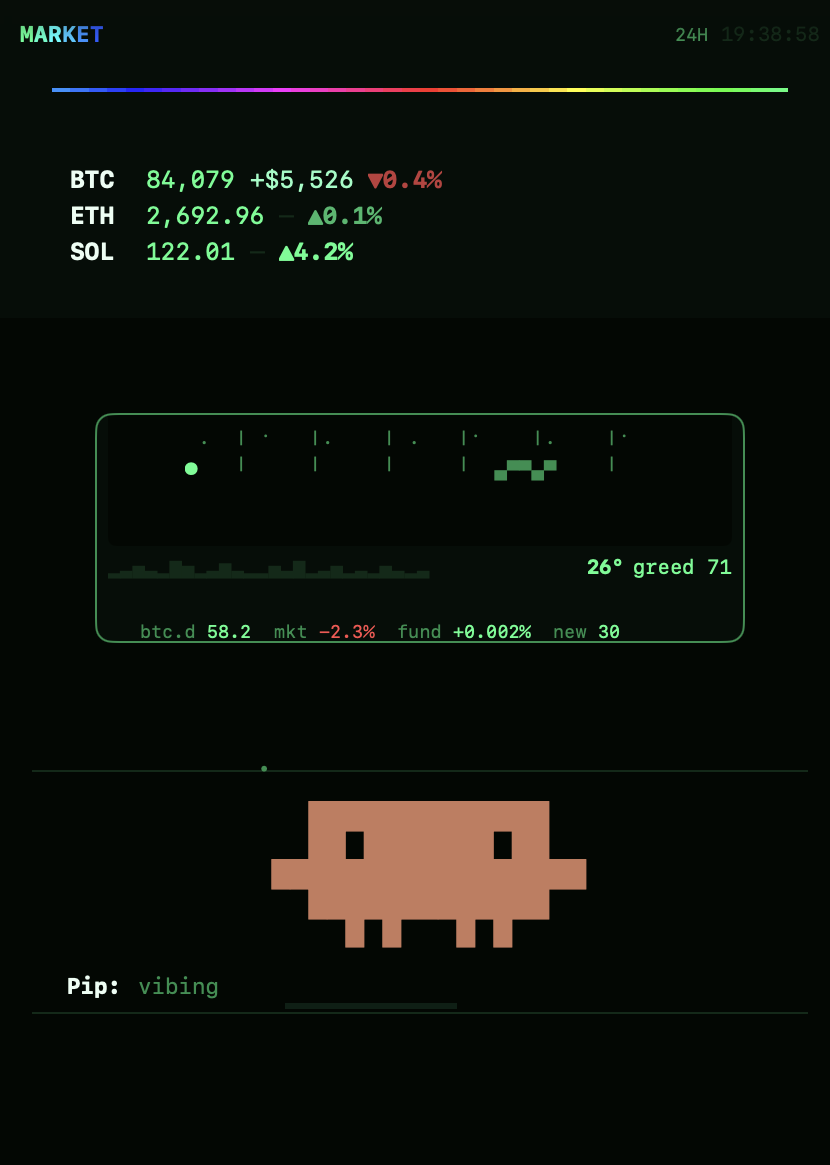
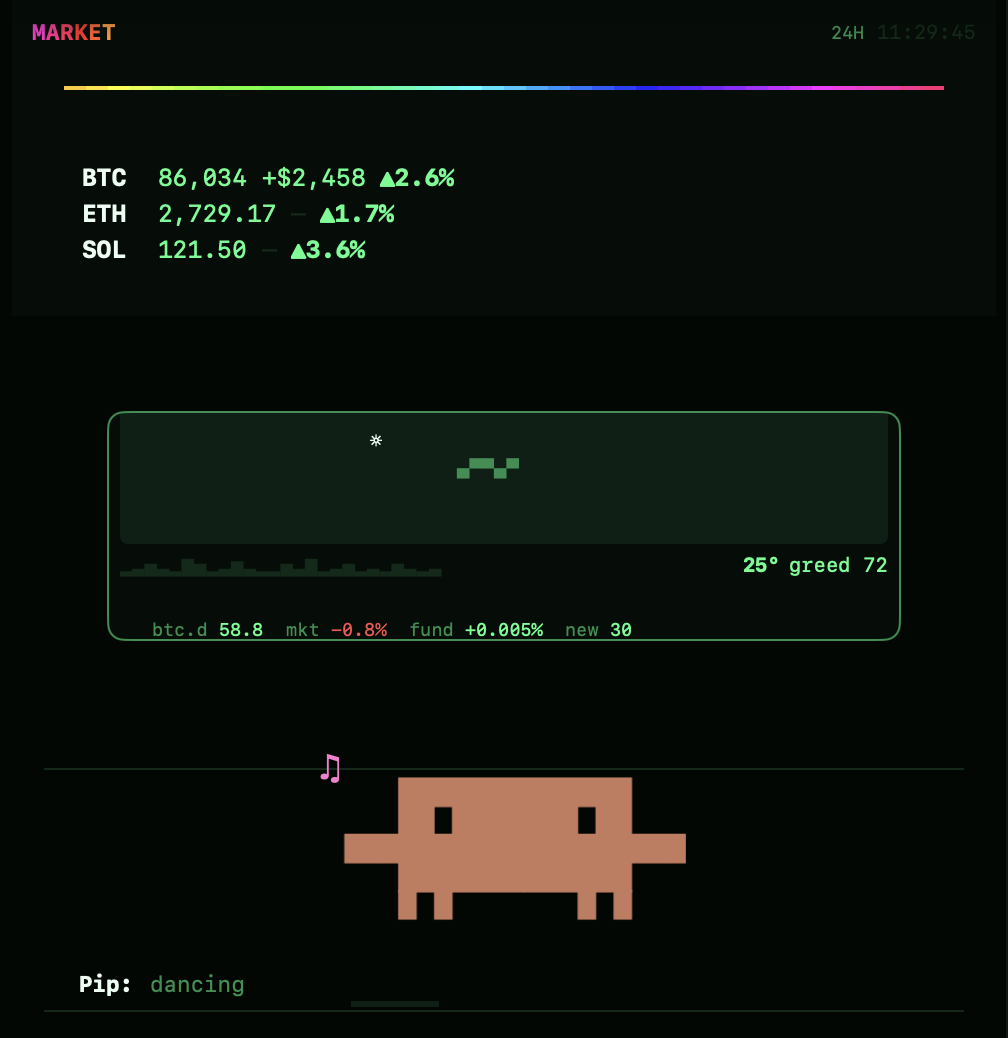
Pip: only what asks something of you makes him say he needs you
The Notification hook carries every notice type, so a finished turn
(idle_prompt), a login, a finished background agent and the quota notices
all made a session "need" you, and with the most urgent session winning,
one finished tab kept Pip on "needs you" for twenty minutes while you
worked in another. Only notices that ask something of you count now:
permission_prompt, worker_permission_prompt (in Claude Code 2.1.286, not
yet in the docs), elicitation_dialog, elicitation_url_dialog,
agent_needs_input, quota_auto_resume_stale (waits for Enter), and any type
naming a permission. Anything else leaves the session as it was.

cmux's live status comes first, so a session you approved reads as
working from its next tool call (cmux records no event for the approval
itself; after a turn's last tool there is none, and it reads "needs you"
until the turn ends). Working counts
on every workspace; needs_input only on the selected one, as before,
because cmux sets it on every Claude notification, a finished turn too, and
nothing clears it until that tab is prompted. The trade, stated in the
code: a session waiting on you isn't shown while a cmux agent is working.

It also fixes the live path itself, dead since 000e1f1: cmux's sidebar
interpreter has no nil, so `$0.agents != nil` filtered every agent out and
Pip never read cmux's status at all. pipMode now uses forms run through cmux
0.64.25's own interpreter, and the bake test fails on any nil.
[…]

diff --git a/tests/test_sidebar.py b/tests/test_sidebar.py
@@ -86,6 +86,9 @@ class Sidebar(unittest.TestCase):
         seed_cache()
 
     def check(self, src):
+        # cmux's interpreter has no nil: a comparison with it evaluates to nothing, which
+        # .filter and if read as false, so `$0.agents != nil` silently dropped every agent.
+        self.assertNotRegex(src, r"\bnil\b", "the interpreter has no nil")
         funcs = defined_funcs(src)
         for arg in colour_args(src):
             ok = (re.fullmatch(HEX, arg)
@@ -163,7 +166,7 @@ class Sidebar(unittest.TestCase):
         self.check(open(out, encoding="utf-8").read())
 
 
-# Pip's hook mode: one small write per hook, never a re-bake, and a working
+# Pip's hook mode: one session's record per hook, never a re-bake, and a working
 # stretch that survives turns ending and long sessions.
 T0 = 1_790_000_000
 
@@ -182,8 +185,8 @@ class HookMode(unittest.TestCase):
             p.stop()
         self.temp.cleanup()
 
-    def hook(self, word, at, session=None):
-        stdin = json.dumps({"session_id": session}) if session else "{}"
+    def hook(self, word, at, session=None, **fields):
+        stdin = json.dumps(dict({"session_id": session} if session else {}, **fields))
         with patch.object(mode.time, "time", return_value=at), \
              patch.object(sys, "argv", ["mode.py", word]), \
              patch.object(sys, "stdin", io.StringIO(stdin)), \
@@ -208,6 +211,32 @@ class HookMode(unittest.TestCase):
         self.hook("idle", T0 + 90, "b")
         self.assertEqual(self.hook_mode(T0 + 100)[0], "work", "both inside their stretch")
         self.assertEqual(self.hook_mode(T0 + 90 + mode.STRETCH)[0], "idle")
+
+    def test_only_notifications_that_need_you_count(self):
+        self.hook("work", T0, "a")
+        before = Path(mode.SESSIONS).read_text()
+        for kind in ("idle_prompt", "auth_success", "agent_completed", "quota_auto_resume_fired"):
+            self.hook("needs", T0 + 10, "a", notification_type=kind)
+        self.assertEqual(Path(mode.SESSIONS).read_text(), before, "these leave the session untouched")
+        self.hook("needs", T0 + 20, "a", message="Claude is waiting for your input")
+        self.assertEqual(Path(mode.SESSIONS).read_text(), before, "an older Claude Code's idle notice")
+        for kind in ("permission_prompt", "worker_permission_prompt", "elicitation_dialog",
+                     "elicitation_url_dialog", "agent_needs_input", "quota_auto_resume_stale",
+                     "some_future_permission_ask"):
+            self.hook("needs", T0 + 30, "b", notification_type=kind)
+            self.assertEqual(self.hook_mode(T0 + 31)[0], "needs", kind)
+            self.hook("work", T0 + 32, "b")
+
+    def test_a_finished_tab_does_not_override_work_elsewhere(self):
+        # The 2026-10-02 regression: session a finished and got idle_prompt while b kept working.
+        self.hook("work", T0, "a")
+        self.hook("idle", T0 + 30, "a")
+        self.hook("needs", T0 + 90, "a", notification_type="idle_prompt")
+        for minute in range(0, 22, 2):
+            self.hook("work", T0 + minute * 60, "b")
+            self.hook("idle", T0 + minute * 60 + 50, "b")
+        for minute in (3, 6, 10, 15, 19, 21):
+            self.assertEqual(self.hook_mode(T0 + minute * 60)[0], "work", f"minute {minute}")
 
     def test_a_silent_session_drops_out(self):
         self.hook("needs", T0, "a")
@@ -245,15 +274,25 @@ class HookMode(unittest.TestCase):
 
     def test_pip_follows_every_workspace_and_the_hook(self):
         os.makedirs(os.path.dirname(self.path), exist_ok=True)
-        if True:
-            Path(self.path).write_text(f"idle 0 {int(time.time())} 0\n")
-            idle = sprite.render()
-            Path(self.path).write_text(f"needs 0 {int(time.time())} 0\n")
-            needs = sprite.render()
-        self.assertIn("workspaces.filter { $0.agents != nil }.flatMap { $0.agents }", idle)
-        self.assertNotIn("$0.selected", idle.split("func pipMode")[1].split("\n}")[0],
-                         "the selected workspace alone must not decide")
-        self.assertIn('func pipMode() -> String {\n    return "needs"\n}', needs)
+        Path(self.path).write_text(f"idle 0 {int(time.time())} 0\n")
+        idle = sprite.render()
+        Path(self.path).write_text(f"needs 0 {int(time.time())} 0\n")
+        needs = sprite.render()
+        fn = idle.split("func pipMode")[1].split("\n}")[0]
+        # working counts on every workspace; cmux's needs_input (set on every Claude notification,
+        # a finished turn too, and never cleared) only on the selected one
+        # These forms were run through cmux 0.64.25's own interpreter (needs_input on the selected
+        # workspace -> needs; working anywhere -> work; a finished background tab -> ignored).
+        self.assertIn("let here = workspaces.filter { $0.selected }.flatMap { $0.agents }", fn)
+        self.assertIn('here.filter { $0.status == "needs_input" }', fn)
+        self.assertIn("let agents = workspaces.flatMap { $0.agents }", fn)
+        self.assertIn('agents.filter { $0.status == "working" }', fn)
+        self.assertNotIn('agents.filter { $0.status == "needs_input" }', fn)
+        # cmux's live agents come first, so an approved session reads as working from its next tool call;
+        # the hook mode is the fallthrough, needs included.
+        mode_fn = needs.split("func pipMode() -> String {")[1].split("\n}")[0]
+        self.assertLess(mode_fn.index('"needs_input"'), mode_fn.index('"working"'))
+        self.assertTrue(mode_fn.rstrip().endswith('return "needs"'), "the hook's needs is the fallthrough")
 
     def test_old_two_field_file_and_missing_file(self):
         os.makedirs(os.path.dirname(self.path), exist_ok=True)

diff --git a/engine/mode.py b/engine/mode.py
@@ -4,8 +4,10 @@
 cmux's agent list can be empty for sessions it didn't launch itself, so the
 sidebar can't always see "working" on its own. Claude Code can say so
 directly: UserPromptSubmit fires when you send a prompt (working starts), Stop
-when the response is done, Notification when Claude is waiting on you. Each
-records the mode here; the minute tick bakes it into the sidebar.
+when the response is done, Notification when Claude is waiting on you (only
+notices that ask something of you count: see wants_you). Each records the
+mode here; the minute tick
+bakes it into the sidebar.
 
 It never re-bakes on its own. A hook fires on every turn of every session,
 and every changed sidebar file is a full reload in cmux; with a few agents
@@ -36,6 +38,14 @@ MODE = paths.cache("pip", "mode.txt")
 SESSIONS = paths.cache("pip", "sessions.json")
 STRETCH = 5 * 60   # prompts closer together than this are one working stretch
 DECAY = 20 * 60    # a session with no hook for this long drops out
+# The Notification types that ask something of you (Claude Code hooks docs; quota_auto_resume_stale
+# waits for Enter).
+# "idle_prompt" only says a turn ended a minute ago; it, auth_success, agent_completed
+# and the other quota notices change nothing, or every finished tab would keep Pip on "needs you".
+# worker_permission_prompt ("<worker> needs permission for <tool>") is in Claude Code 2.1.286 but
+# not yet in the docs, so any type naming a permission counts too.
+NEEDS_YOU = {"permission_prompt", "worker_permission_prompt", "elicitation_dialog",
+             "elicitation_url_dialog", "agent_needs_input", "quota_auto_resume_stale"}
 
 
 def read(path=None):
@@ -101,12 +111,25 @@ def _write(path, text):
     os.replace(tmp, path)
 
 
-def session_of(raw):
+def payload(raw):
     try:
-        sid = json.loads(raw).get("session_id")
-    except (ValueError, AttributeError):
-        sid = None
+        data = json.loads(raw)
+    except ValueError:
+        return {}
+    return data if isinstance(data, dict) else {}
+
+
+def session_of(data):
+    sid = data.get("session_id")
     return str(sid) if sid else "default"
+
+
+def wants_you(data):
+    """Is a Notification about something you have to act on? No detail counts as yes."""
+    kind = data.get("notification_type")
+    if kind:
+        return kind in NEEDS_YOU or "permission" in str(kind)
+    return "waiting for your input" not in str(data.get("message") or "").lower()
 
 
 def main():
@@ -118,7 +141,10 @@ def main():
         raw = "" if sys.stdin.isatty() else sys.stdin.read()
     except Exception:
         raw = ""
-    sid = session_of(raw)
+    data = payload(raw)
+    if mode == "needs" and not wants_you(data):
+        return 0
+    sid = session_of(data)
     os.makedirs(os.path.dirname(MODE), exist_ok=True)
     now = int(time.time())
     with open(SESSIONS + ".lock", "w") as lock:

diff --git a/engine/sprite.py b/engine/sprite.py
@@ -135,9 +135,10 @@ IDLE = [
 
 BY_NAME = {m["caption"]: m for m in IDLE}
 
-# Chosen by the sidebar from everything the person running him is doing: any
-# Claude that needs them and he waves; any Claude working and he works; when
-# all of it is quiet he's back to a mood.
+# Chosen by the sidebar from what the person running him is doing: cmux's own
+# agents live first, then every Claude Code session's hooks. His "needs you"
+# means an agent pinged them; his work means they put one to work; otherwise
+# he's back to a mood.
 LIVE = {
     "work":  M("working", [E_DEF, E_LEFT], 3, "jitter",
                ["▁", "▃", "▅", "▇", "▅", "▃"], "#40C8E0",
@@ -310,17 +311,21 @@ def render(state=None):
 
     funcs = schedules(m, "I") + schedules(LIVE["work"], "W") + schedules(LIVE["needs"], "N")
 
-    # Live mode, read by the sidebar every second. Pip follows whoever runs him:
-    # the hook mode (baked in, every Claude Code session) and cmux's agents on
-    # every workspace, live. The most urgent wins: needs, then work, then idle.
-    if hm == "needs":
-        funcs.append('''func pipMode() -> String {
-    return "needs"
-}''')
-    else:
-        funcs.append(f'''func pipMode() -> String {{
-    let agents = workspaces.filter {{ $0.agents != nil }}.flatMap {{ $0.agents }}
-    if agents.filter {{ $0.status == "needs_input" }}.count > 0 {{ return "needs" }}
+    # Live mode, read by the sidebar every second. Pip follows whoever runs him.
+    # cmux's live status comes first, so a session you approved reads as working
+    # from its next tool call (cmux records no event for the approval itself):
+    # working counts on every workspace, but needs_input only
+    # on the one you're looking at, because cmux sets it on every Claude
+    # notification (a finished turn too) and nothing clears it until that tab
+    # is prompted. Then the hook mode, baked in each minute: every Claude Code
+    # session, cmux's included, only notices that ask something of you, the most
+    # urgent first. The trade: a session waiting on you is not shown while a
+    # cmux agent is working. No `nil` here: the interpreter has no nil, so a
+    # comparison with it is always false and filtered everything out.
+    funcs.append(f'''func pipMode() -> String {{
+    let here = workspaces.filter {{ $0.selected }}.flatMap {{ $0.agents }}
+    if here.filter {{ $0.status == "needs_input" }}.count > 0 {{ return "needs" }}
+    let agents = workspaces.flatMap {{ $0.agents }}
     if agents.filter {{ $0.status == "working" }}.count > 0 {{ return "work" }}
     return "{hm}"
 }}''')

diff --git a/install.py b/install.py
@@ -313,7 +313,7 @@ def claude():
         if not any(h.get("command") == cmd for g in groups for h in g.get("hooks", [])):
             groups.append({"hooks": [{"type": "command", "command": cmd, "timeout": 10}]})
             changed = True
-    ok("hooks: Pip works when Claude works, and waves when it needs you")
+    ok("hooks: Pip's “needs you” means an agent pinged you; when he works, you've put one to work")
     if changed:
         dump_json(path, data)
 

diff --git a/README.md b/README.md
@@ -8,7 +8,7 @@ A green CRT for the whole stack: terminal, shell, cmux sidebar, Claude Code and 
 
 - **The board.** Live prices, month-to-date in dollars, and the 24h move. Colour carries the size of the move, not just its sign.
 - **The sky.** The real sun, moon and stars over wherever you are. The weather comes from the market: clouds thicken with fear, rain falls when the market bleeds, and a crash is a storm. A tape underneath shows BTC dominance, market cap, funding and new listings.
-- **Pip.** The Claude Code mascot, alive. He blinks, looks around, dances, copes and touches grass, with a new random minute of behaviour every minute. He follows every Claude you run, in any app and on every workspace. If one needs you, he waves; if one is working, so is he.
+- **Pip.** The Claude Code mascot, alive. He blinks, looks around, dances, copes and touches grass, with a new random minute of behaviour every minute. His “needs you” means an agent pinged you; when he works, you've put one to work.
 
 **The terminal** is one hue at many brightnesses. A CRT shader adds glass curvature, an aperture grille, scanlines and bloom. The beam blooms as you type, and the tube warms up when a pane takes focus.
 
@@ -22,7 +22,7 @@ A green CRT for the whole stack: terminal, shell, cmux sidebar, Claude Code and 
 
 <img src="docs/terminal.png" alt="the Phosphor terminal under the CRT shader: git log, tests passing, ls, and gti status at the prompt, its typo already amber">
 
-<p align="center"><img src="docs/pip.gif" width="338" alt="Pip dancing under music notes, then “thinking…” while Claude works, then “needs you” with a ! when Claude is waiting"></p>
+<p align="center"><img src="docs/pip.gif" width="338" alt="Pip dancing under music notes, then “thinking…” while Claude works, then “needs you” with a ! when an agent pings you"></p>
 
 ![status line](docs/statusline.png)
 
